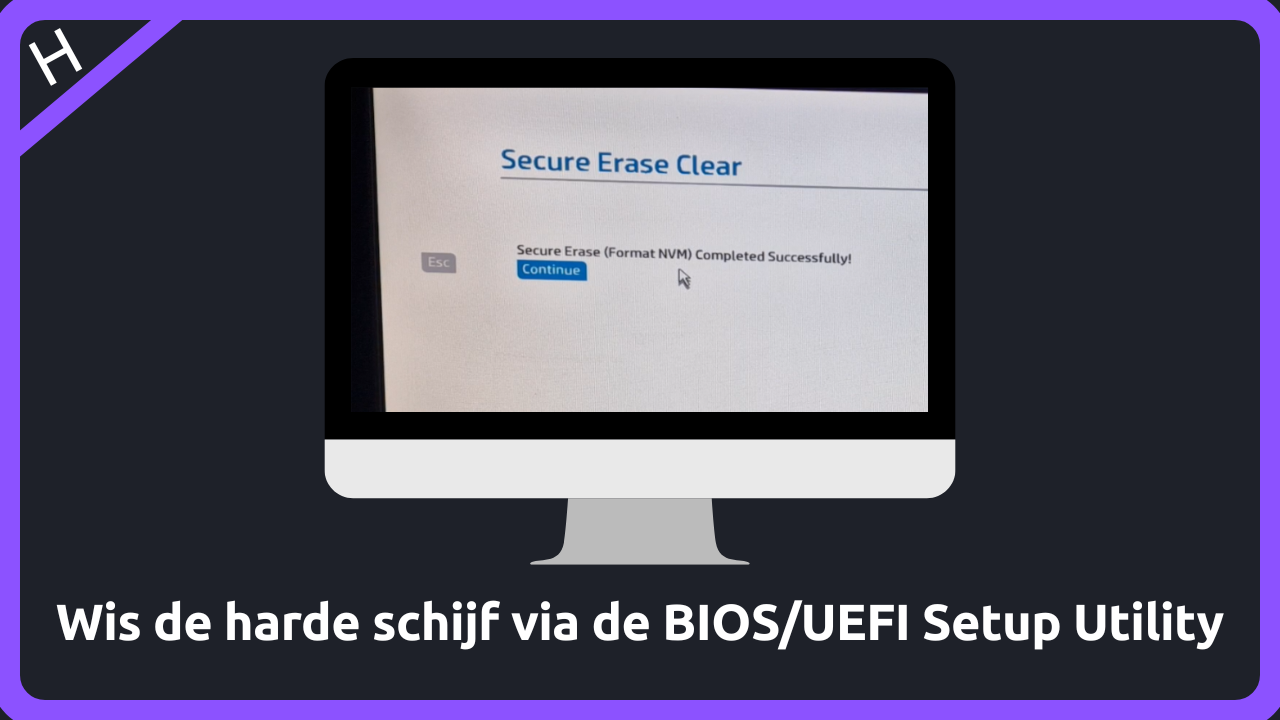
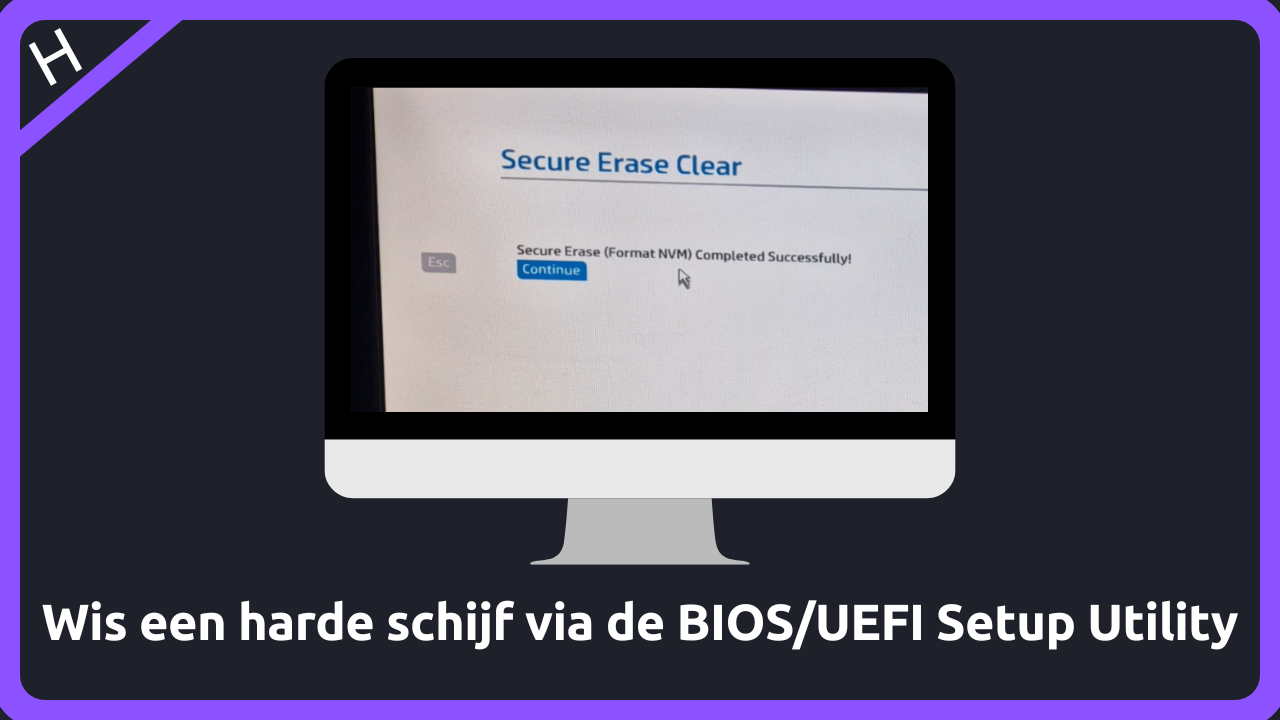
changes

Changed region(s): [[0.0312, 0.825, 0.9688, 0.9167]]

diff --git a/docs/howtos/wis-harde-schijf-linuxmint/index.md b/docs/howtos/wis-harde-schijf-linuxmint/index.md
@@ -1,0 +1,91 @@
+# Wis een harde schijf via Linux Mint
+
+Binnen Linux Mint kun je een Solid State Drive (SSD) grondig en veilig wissen via de ingebouwde terminal, zonder dat je daarvoor de computer opnieuw hoeft op te starten naar de BIOS of UEFI. Door gebruik te maken van de krachtige command-line tool `nvme`, stuur je rechtstreeks een zogeheten Format of Sanitize-commando naar de controller van de schijf. Hierdoor worden alle opgeslagen gegevens op hardwareniveau definitief en onherstelbaar vernietigd. Dit is de snelste en meest betrouwbare methode om een moderne NVMe-SSD in Linux Mint weer in de fabrieksstatus te herstellen.
+
+## Vereisten
+- een [PC met Linux Mint 22](../../tutorials/setup-windows11-linuxmint22-dual-boot-uefi/index.md ){:target="_blank"}
+- een [opstartbare USB-stick voor Linux Mint](../../howtos/maak-opstartbare-usb-stick-ventoy/index.md){:target="_blank"}
+
+## Demo
+<iframe width="854" height="480" src="https://www.youtube.com/embed/xiRsG7-qaQY?autoplay=0&loop=0&mute=0" title="YouTube video player" frameborder="0" allow="accelerometer; autoplay; clipboard-write; encrypted-media; gyroscope; picture-in-picture; web-share" referrerpolicy="strict-origin-when-cross-origin" allowfullscreen></iframe>
+
+## Boot vanaf de USB-stick
+Plaats de Ventoy USB-stick in de pc en start deze op via de F9-toets om het bootmenu te openen. Kies hier achtereenvolgens voor Ventoy en Linux Mint (normal mode) om rechtstreeks in de live-omgeving van Linux Mint te starten.
+
+## Update pakketlijst
+Vernieuw de lokale pakketlijst om je systeem op de hoogte te brengen van de nieuwste beschikbare pakketten en updates in de gekoppelde software repositories.
+
+=== "guru@hp:~$_"
+
+    ``` title=''
+    sudo apt update
+    ```
+
+=== "output"
+
+    ``` title='' hl_lines="0"
+    ...
+    guru@hp:~$ 
+    ```
+
+## Install SSD tool
+Installeer de `nvme-tool` op je systeem.
+
+=== "guru@hp:~$_"
+
+    ``` title=''
+    sudo apt install nvme-cli
+    ```
+
+=== "output"
+
+    ``` title='' hl_lines="0"
+    ...
+    guru@hp:~$ 
+    ```
+
+## Wis de schijven
+Doe een `User Data Erase`. Dit wist alle data.
+
+=== "guru@hp:~$_"
+
+    ``` title=''
+    sudo nvme format /dev/nvme0n1 --ses=1 --force
+    sudo nvme format /dev/nvme1n1 --ses=1 --force
+    ```
+
+=== "output"
+
+    ``` title='' hl_lines="0"
+    ...
+    guru@hp:~$ 
+    ```
+
+## Verifieer
+Om te controleren of de schijf nu echt een "leeg vel" is, kijken we naar de ruwe data op de eerste sectoren.
+
+=== "guru@hp:~$_"
+    - head -c 1M: Leest de eerste megabyte van de schijf (waar normaal de MBR, partitietabel en bootloader staan)
+    - hexdump -C: Zet de binaire data om in leesbare hexadecimale tekens.
+
+    ``` title=''
+    sudo head -c 1M /dev/nvme0n1 | hexdump -C
+    ```
+
+=== "output"
+    Als alles goed is gegaan, zie je slechts één regel met nullen en daarna een sterretje (*), wat betekent dat de rest van de data identiek is aan de eerste regel.
+
+    ``` title='' hl_lines="0"
+    ...
+    guru@hp:~$ 
+    ```
+
+## Shutdown
+Je schijf/schijven is/zijn nu in de best mogelijke conditie om een nieuw besturingssysteem te ontvangen, omdat de controller weet dat alle cellen "vrij" zijn en hij niet eerst oude data hoeft te wissen bij de eerste schrijfactie.
+
+Doe een shutdown van de PC.
+
+
+!!! info 
+    Als het wissen van de harde schijf is gelukt, zal het systeem bij een herstart proberen om via PXE op te starten, wat zal mislukken. Dit is verwacht en geen probleem. Schakel dan de pc uit door de aan/uit-knop lang genoeg ingedrukt te houden.
+

diff --git a/docs/index.md b/docs/index.md
@@ -614,6 +614,16 @@ Cras elementum metus quis est luctus, vitae tincidunt orci consequat. Maecenas a
     <br>
     <br>
 
+    <img src="howtos/wis-harde-schijf-linuxmint/home.png" width="320" height="180" align=right />
+    > *03 September 2025 - in [Howtos](howtos/index.md) - 10 min instructie*
+
+
+    Binnen Linux Mint kun je een Solid State Drive (SSD) grondig en veilig wissen via de ingebouwde terminal, zonder dat je daarvoor de computer opnieuw hoeft op te starten naar de BIOS of UEFI...
+
+    [Lees verder](howtos/wis-harde-schijf-linuxmint/index.md){:target="_blank"}
+    <br>
+    <br>
+
 <!---
     - commentaar
 --->

diff --git a/docs/tutorials/setup-windows11-linuxmint22-dual-boot-uefi/03-voorbereiding.md b/docs/tutorials/setup-windows11-linuxmint22-dual-boot-uefi/03-voorbereiding.md
@@ -12,5 +12,8 @@ Start de LES PC op en gebruik de juiste toets (vaak F2, Del, F10 of Esc) om de B
 - [Stap 3.2: Configureer de opstartmodus.](../../howtos/configureer-opstartmodus-bios-uefi/index.md){:target="_blank"}
 Pas de instellingen aan voor 'Secure Boot' en de 'Boot Mode' (bv. UEFI of Legacy) zoals vereist voor dual boot.
 
-- [Stap 3.3: Wis de harde schijf (indien mogelijk).](../../howtos/wis-harde-schijf-bios-uefi/index.md){:target="_blank"}
+- [Stap 3.3: Wis de harde schijven via BIOS/UEFI (indien mogelijk).](../../howtos/wis-harde-schijf-bios-uefi/index.md){:target="_blank"}
+Zorg ervoor dat alle bestaande gegevens van de harde schijf worden verwijderd. **Let op: Dit verwijdert alle data op de schijf!**
+
+- [Stap 3.4: Wis de harde schijven vanuit Linux Mint.](../../howtos/wis-harde-schijf-linuxmint/index.md){:target="_blank"}
 Zorg ervoor dat alle bestaande gegevens van de harde schijf worden verwijderd. **Let op: Dit verwijdert alle data op de schijf!**

diff --git a/docs/howtos/wis-harde-schijf-bios-uefi/index.md b/docs/howtos/wis-harde-schijf-bios-uefi/index.md
@@ -1,4 +1,4 @@
-# Wis de harde schijf via de BIOS/UEFI Setup Utility
+# Wis een harde schijf via de BIOS/UEFI Setup Utility
 
 Veel moderne UEFI-firmware (vooral op laptops en desktops van fabrikanten zoals bv. HP, Dell, Lenovo en bij sommige moederbordfabrikanten) bevat een functie genaamd `Secure Erase` of een vergelijkbare term. Deze functie is specifiek ontworpen voor Solid State Drives (SSD's) en gebruikt ATA Secure Erase-commando's om alle gegevens op de SSD veilig en permanent te wissen, zodat ze onherstelbaar zijn. Dit is de meest effectieve manier om een SSD "schoon" te maken.
 

diff --git a/docs/tutorials/setup-windows11-linuxmint22-dual-boot-uefi/02-installatiemedia.md b/docs/tutorials/setup-windows11-linuxmint22-dual-boot-uefi/02-installatiemedia.md
@@ -19,4 +19,4 @@ Zorg ervoor dat je beschikt over het officiële installatiebestand voor Linux Mi
 Controleer of het gedownloade Linux Mint ISO-bestand correct en ongewijzigd is.
 
 - [Stap 2.6: Maak een opstartbare USB-stick voor Windows & Linux Mint 22 met Ventoy.](../../howtos/maak-opstartbare-usb-stick-ventoy/index.md){:target="_blank"}
-Gebruik `Rufus` op Windows, `USB Image Writer` of `Ventoy` op Linux Mint om je Linux Mint installatiemedium te maken.
+Gebruik de tool `Ventoy` op Linux Mint om zowel je Windows als je Linux Mint installatiemedium te maken.